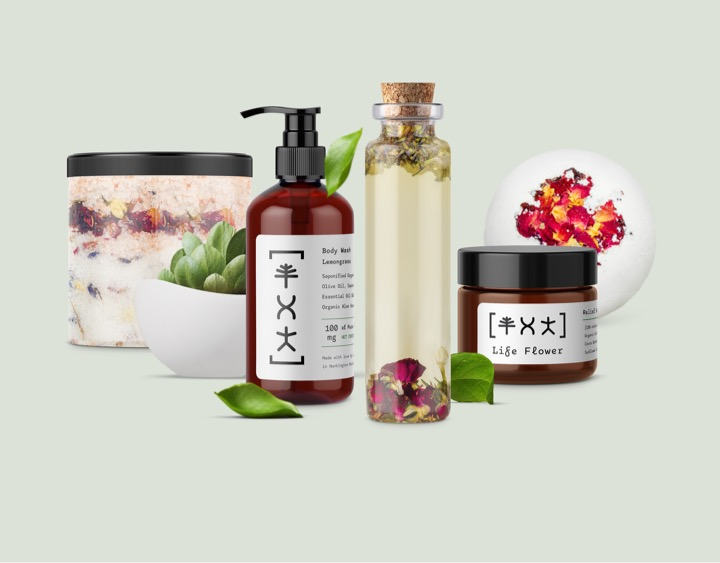
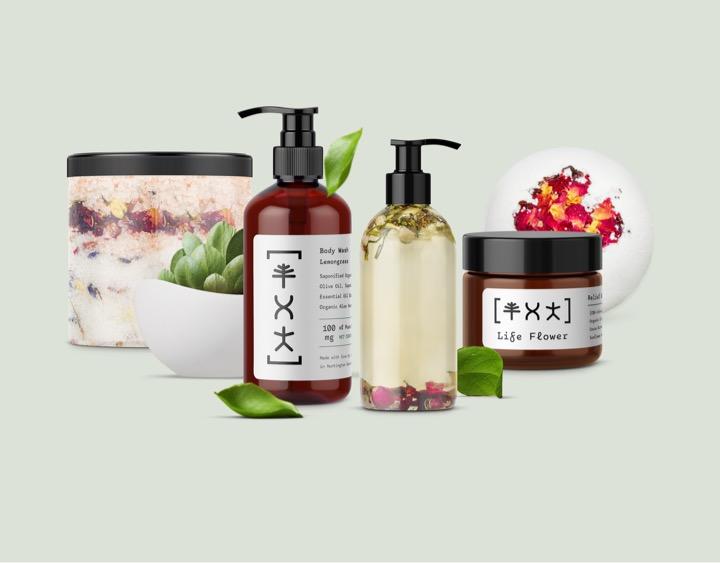
no more cork vial

Changed region(s): [[0.3361, 0.1208, 0.8861, 0.7549], [0.3361, 0.1812, 0.4583, 0.3321], [0.3972, 0.3623, 0.4278, 0.4227]]

diff --git a/docs/shop/category/bedroom/index.html b/docs/shop/category/bedroom/index.html
@@ -455,74 +455,13 @@
       <div class="product__new-spacer"></div>
       
 
-      <a href="/shop/massage-oil/">
-        <div class="product__content">
-
-          <img class="cf-responsive" src="/assets/img/products/gypsy-oil.jpg">
-
-          <div class="product__title">
-            “Gypsy” Massage Oil (Vial)
-          </div>
-
-          <div class="product__description">
-            <p>500mg Hemp-Derived CBD</p>
-            <p class="product__price">$40 USD</p>
-          </div>
-
-          <a class="button__buy snipcart-add-item"
-          data-item-id="gypsy-massage-oil-vial"
-          data-item-name="“Gypsy” Massage Oil (Vial)"
-          data-item-price="40"
-          data-item-price-wholesale="20"
-          data-item-url="/shop/massage-oil/"
-          data-item-weight="220"
-          data-item-description="500mg Hemp-Derived CBD"
-          data-item-shipable="true"
-          data-item-stackable="false"
-          
-            data-item-custom1-name="Product container"
-             data-item-custom1-options="Glass Vial|Glass Pump" 
-            data-item-custom1-required="true"
-          
-          >
-          Add to Cart
-          </a>
-          <a class="button__shop-details" href="/shop/massage-oil/">View Details</a>
-
-        </div>
-      </a>
-
-    </div>
-
-  </div>
-
-  
-  
-  
-  
-
-  
-  
-
-  
-
-  <div class="product ">
-
-    <div class="product__container">
-
-      
-
-      
-      <div class="product__new-spacer"></div>
-      
-
       <a href="/shop/massage-oil-pump/">
         <div class="product__content">
 
           <img class="cf-responsive" src="/assets/img/products/gypsy-oil-pump.jpg">
 
           <div class="product__title">
-            “Gypsy” Massage Oil (Pump)
+            “Gypsy” Massage Oil
           </div>
 
           <div class="product__description">
@@ -531,19 +470,15 @@
           </div>
 
           <a class="button__buy snipcart-add-item"
-          data-item-id="gypsy-massage-oil-pump"
-          data-item-name="“Gypsy” Massage Oil (Pump)"
+          data-item-id="gypsy-massage-oil"
+          data-item-name="“Gypsy” Massage Oil"
           data-item-price="40"
           data-item-price-wholesale="20"
           data-item-url="/shop/massage-oil-pump/"
           data-item-weight="220"
           data-item-description="500mg Hemp-Derived CBD"
           data-item-shipable="true"
-          data-item-stackable="false"
-          
-            data-item-custom1-name="Product container"
-             data-item-custom1-options="Glass Pump|Glass Vial" 
-            data-item-custom1-required="true"
+          data-item-stackable="true"
           
           >
           Add to Cart
@@ -557,6 +492,8 @@
 
   </div>
 
+  
+  
   
   
   

diff --git a/docs/shop/index.html b/docs/shop/index.html
@@ -1140,49 +1140,13 @@
     <div class="product__new-spacer"></div>
     
 
-    <a href="/shop/massage-oil/">
-      <div class="product__content">
-
-        <img class="cf-responsive" src="/assets/img/products/gypsy-oil.jpg" />
-
-        <div class="product__title">
-          “Gypsy” Massage Oil (Vial)
-        </div>
-
-        <div class="product__description">
-          <p>500mg Hemp-Derived CBD</p>
-          <p class="product__price">$40 USD</p>
-        </div>
-
-        <a class="button__buy snipcart-add-item" data-item-id="gypsy-massage-oil-vial" data-item-name="“Gypsy” Massage Oil (Vial)" data-item-price="40" data-item-price-wholesale="20" data-item-url="/shop/massage-oil/" data-item-weight="220" data-item-description="500mg Hemp-Derived CBD" data-item-shipable="true" data-item-stackable="false" data-item-custom1-name="Product container" data-item-custom1-options="Glass Vial|Glass Pump" data-item-custom1-required="true">
-        Add to Cart
-        </a>
-        <a class="button__shop-details" href="/shop/massage-oil/">View Details</a>
-
-      </div>
-    </a>
-
-  </div>
-
-</div>
-
-<div class="product ">
-
-  <div class="product__container">
-
-    
-
-    
-    <div class="product__new-spacer"></div>
-    
-
     <a href="/shop/massage-oil-pump/">
       <div class="product__content">
 
         <img class="cf-responsive" src="/assets/img/products/gypsy-oil-pump.jpg" />
 
         <div class="product__title">
-          “Gypsy” Massage Oil (Pump)
+          “Gypsy” Massage Oil
         </div>
 
         <div class="product__description">
@@ -1190,7 +1154,7 @@
           <p class="product__price">$40 USD</p>
         </div>
 
-        <a class="button__buy snipcart-add-item" data-item-id="gypsy-massage-oil-pump" data-item-name="“Gypsy” Massage Oil (Pump)" data-item-price="40" data-item-price-wholesale="20" data-item-url="/shop/massage-oil-pump/" data-item-weight="220" data-item-description="500mg Hemp-Derived CBD" data-item-shipable="true" data-item-stackable="false" data-item-custom1-name="Product container" data-item-custom1-options="Glass Pump|Glass Vial" data-item-custom1-required="true">
+        <a class="button__buy snipcart-add-item" data-item-id="gypsy-massage-oil" data-item-name="“Gypsy” Massage Oil" data-item-price="40" data-item-price-wholesale="20" data-item-url="/shop/massage-oil-pump/" data-item-weight="220" data-item-description="500mg Hemp-Derived CBD" data-item-shipable="true" data-item-stackable="true">
         Add to Cart
         </a>
         <a class="button__shop-details" href="/shop/massage-oil-pump/">View Details</a>

diff --git a/docs/shop/massage-oil-pump/index.html b/docs/shop/massage-oil-pump/index.html
@@ -4,7 +4,7 @@
   <meta charset="utf-8" />
   <meta http-equiv="X-UA-Compatible" content="IE=edge" />
   <meta name="viewport" content="width=device-width, initial-scale=1, maximum-scale=1, user-scalable=0"/>
-  <title>“Gypsy” Massage Oil (Pump) &ndash; Life Flower &ndash; Plant Infused Wellness</title>
+  <title>“Gypsy” Massage Oil &ndash; Life Flower &ndash; Plant Infused Wellness</title>
   <meta name="description" content="Relieve, Repair, Relax." />
   <meta name="google-site-verification" content="">
   <link rel="apple-touch-icon" sizes="180x180" href="/assets/favicon/apple-touch-icon.png?v=LbGQnBrmkJ">
@@ -110,7 +110,7 @@
   <section class="product-detail">
 
     <div class="container">
-        <h1>“Gypsy” Massage Oil (Pump)</h1>
+        <h1>“Gypsy” Massage Oil</h1>
         
         <div class="product-detail__strength">
             500mg Hemp-Derived CBD
@@ -129,19 +129,15 @@
     </div>
 
     <a class="button__buy button__buy--item-page snipcart-add-item"
-    data-item-id="gypsy-massage-oil-pump"
-    data-item-name="“Gypsy” Massage Oil (Pump)"
+    data-item-id="gypsy-massage-oil"
+    data-item-name="“Gypsy” Massage Oil"
     data-item-price="40"
     data-item-price-wholesale="20"
     data-item-url="/shop/massage-oil-pump/"
     data-item-weight="220"
     data-item-description="500mg Hemp-Derived CBD"
     data-item-shipable="true"
-    data-item-stackable="false"
-    
-      data-item-custom1-name="Product container"
-       data-item-custom1-options="Glass Pump|Glass Vial" 
-      data-item-custom1-required="true"
+    data-item-stackable="true"
     
     >
     Add to Cart

diff --git a/docs/shop/category/bathroom/index.html b/docs/shop/category/bathroom/index.html
@@ -1035,12 +1035,6 @@
   
   
   
-
-  
-  
-
-  
-  
   
   
 

diff --git a/docs/shop/category/apparel/index.html b/docs/shop/category/apparel/index.html
@@ -447,12 +447,6 @@
   
   
   
-
-  
-  
-
-  
-  
   
   
 

diff --git a/docs/shop/category/balm/index.html b/docs/shop/category/balm/index.html
@@ -447,12 +447,6 @@
   
   
   
-
-  
-  
-
-  
-  
   
   
 

diff --git a/docs/shop/category/bath-bomb/index.html b/docs/shop/category/bath-bomb/index.html
@@ -447,12 +447,6 @@
   
   
   
-
-  
-  
-
-  
-  
   
   
 

diff --git a/docs/shop/category/bath-crystal/index.html b/docs/shop/category/bath-crystal/index.html
@@ -447,12 +447,6 @@
   
   
   
-
-  
-  
-
-  
-  
   
   
 

diff --git a/docs/shop/category/bubble-bath/index.html b/docs/shop/category/bubble-bath/index.html
@@ -447,12 +447,6 @@
   
   
   
-
-  
-  
-
-  
-  
   
   
 

diff --git a/docs/shop/category/crystals/index.html b/docs/shop/category/crystals/index.html
@@ -447,12 +447,6 @@
   
   
   
-
-  
-  
-
-  
-  
   
   
 

diff --git a/docs/shop/category/elixir/index.html b/docs/shop/category/elixir/index.html
@@ -447,12 +447,6 @@
   
   
   
-
-  
-  
-
-  
-  
   
   
 

diff --git a/docs/shop/category/massage-oil/index.html b/docs/shop/category/massage-oil/index.html
@@ -447,12 +447,6 @@
   
   
   
-
-  
-  
-
-  
-  
   
   
 
